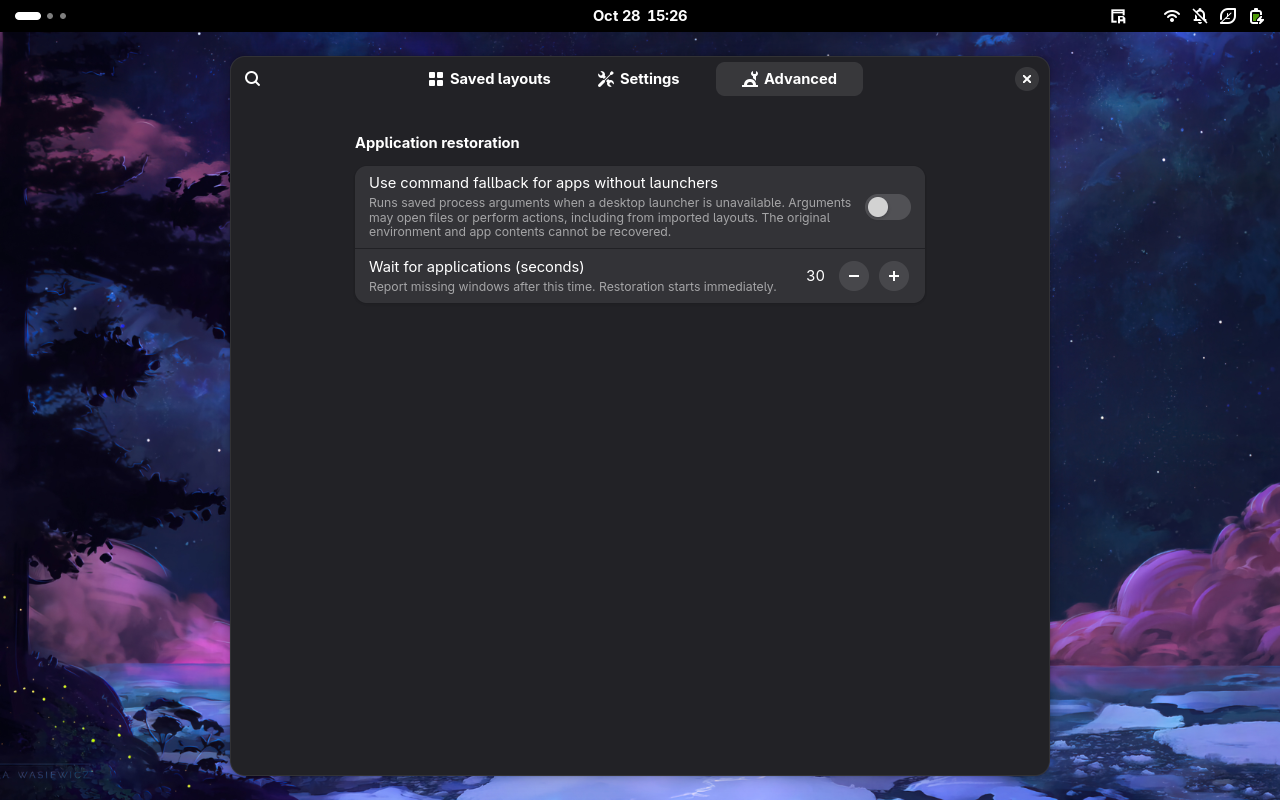
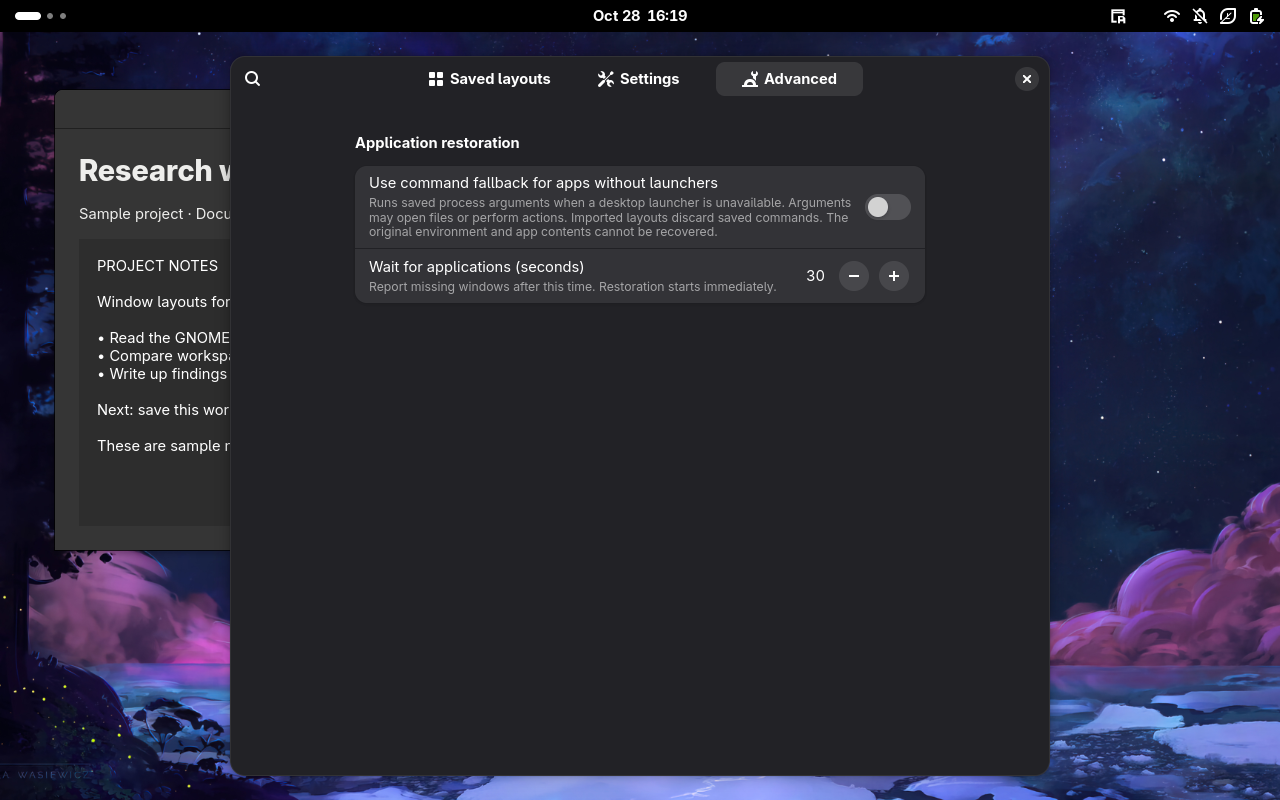
Refresh documentation screenshots and prepare WindowKeep release

Changed region(s): [[0.0312, 0.0938, 0.1875, 0.6875], [0.2812, 0.25, 0.6562, 0.3125], [0.5, 0.0, 0.5312, 0.0312]]

diff --git a/tests/shell-smoke.js b/tests/shell-smoke.js
@@ -31,12 +31,22 @@ export async function run() {
         throw new Error(`Extension failed: ${ext.error}`);
     await Scripting.createTestWindow({width: 640, height: 480});
     await Scripting.waitTestWindows();
-    const {capture, allWindows} = await import(`file://${root}/capture.js`);
+    const {capture, allWindows, commandLine, loginToken} = await import(`file://${root}/capture.js`);
     const {ProfileStore} = await import(`file://${root}/store.js`);
     const {RestoreManager} = await import(`file://${root}/restore.js`);
     const windows = allWindows();
     if (!windows.length) throw new Error('Test window was not captured');
     const w = windows[0];
+    if (loginToken() !== loginToken()) throw new Error('Session identity changed');
+    const argumentsSnapshot = await commandLine(w.get_pid(), '');
+    if (!argumentsSnapshot?.length) throw new Error('Async process argument capture failed');
+    const cancelledCapture = new Gio.Cancellable();
+    cancelledCapture.cancel();
+    let captureCancelled = false;
+    try { await capture('Cancelled capture', null, cancelledCapture); }
+    catch (_) { captureCancelled = true; }
+    if (!captureCancelled) throw new Error('Capture ignored cancellation');
+    print('WINDOWKEEP_ASYNC_CAPTURE_PASS');
     Main.wm.blockWorkspaceUpdates();
     try {
         while (global.workspace_manager.n_workspaces < 3)
@@ -45,7 +55,7 @@ export async function run() {
         w.move_resize_frame(true, 100, 100, 640, 480);
         await Scripting.waitLeisure();
         await waitFor(() => w.get_frame_rect().width > 0 && w.get_frame_rect().height > 0);
-        const profile = capture('Nested smoke');
+        const profile = await capture('Reference workspace');
         const saved = profile.windows.find(s => s.stableSequence === w.get_stable_sequence());
         if (saved.workspace !== 2) throw new Error('Inactive workspace not captured');
         const store = new ProfileStore();
@@ -73,7 +83,7 @@ export async function run() {
         appWindows[0].change_workspace_by_index(2, false);
         appWindows[1].move_to_monitor(1);
         await Scripting.waitLeisure();
-        const fresh = capture('Two monitors');
+        const fresh = await capture('Two monitors');
         fresh.windows = fresh.windows.filter(win => win.appId === 'org.example.WindowKeepTest.desktop');
         if (fresh.windows.length !== 2 || new Set(fresh.windows.map(win => win.monitor)).size !== 2)
             throw new Error(`Multi-monitor capture failed: ${JSON.stringify(fresh.windows)}`);
@@ -104,12 +114,27 @@ export async function run() {
         if (resetResult.state !== 'complete') throw new Error(`Unmaximize restore failed: ${JSON.stringify(resetResult)}`);
         resetRestore.destroy();
         print('WINDOWKEEP_STATE_PASS');
+        const stageDemoWindows = async () => {
+            if (!GLib.getenv('WINDOWKEEP_DOC_SCREENSHOTS')) return;
+            for (const [index, win] of testWindows().entries()) {
+                win.change_workspace(global.workspace_manager.get_active_workspace());
+                win.move_to_monitor(0);
+                win.unminimize();
+                win.move_resize_frame(true, 55 + index * 330, 90 + index * 100, 620, 460);
+                win.activate(global.get_current_time());
+            }
+            await Scripting.sleep(500);
+        };
+        await stageDemoWindows();
+        fresh.windows = (await capture('Research workspace', new Set(testWindows()))).windows;
         fresh.name = 'Research workspace';
         (await store.write(fresh));
         Main.overview.hide();
         await Scripting.waitLeisure();
         ext.stateObj._indicator.menu.open();
-        await Scripting.waitLeisure();
+        await ext.stateObj._refresh();
+        ext.stateObj._indicator.menu._getMenuItems().find(item => item.label?.text.startsWith('Research workspace'))?.menu.open();
+        await Scripting.sleep(400);
         await screenshot(`${GLib.getenv('WINDOWKEEP_REAL_SOURCE')}/docs/panel.png`);
         ext.stateObj._indicator.menu.close();
         if (GLib.getenv('WINDOWKEEP_DOC_SCREENSHOTS')) {
@@ -141,6 +166,7 @@ export async function run() {
         await new Promise((resolve, reject) => prefsProcess.wait_check_async(null, (proc, result) => {
             try { proc.wait_check_finish(result); resolve(); } catch (error) { reject(error); }
         }));
+        await stageDemoWindows();
         const cliSave = (await cli(root, 'save', 'D-Bus smoke')).trim();
         const listing = JSON.parse(await cli(root, 'list'));
         if (!listing.profiles.some(p => p.id === cliSave)) throw new Error('D-Bus save/list failed');
@@ -168,7 +194,8 @@ export async function run() {
         missingRestore.destroy();
         if (missingRestore.operation || cancelOp.signals.items.length || cancelOp.workspaceUpdatesBlocked && Main.wm._blockCount < 1) throw new Error('Cancellation cleanup failed');
         const panelBefore = (await store.list()).profiles.length;
-        ext.stateObj._reviewSave('Research workspace');
+        await stageDemoWindows();
+        await ext.stateObj._reviewSave('Research workspace');
         if (GLib.getenv('WINDOWKEEP_DOC_SCREENSHOTS')) {
             await Scripting.sleep(500);
             await screenshot(`${GLib.getenv('WINDOWKEEP_REAL_SOURCE')}/docs/save-review.png`);
@@ -203,7 +230,7 @@ export async function run() {
         fakeExit.contentLayout.destroy();
         print('WINDOWKEEP_EXIT_REVIEW_FLOW_PASS');
         const beforeSave = (await store.list()).profiles.length;
-        ext.stateObj._reviewSave('My research project', false, 0);
+        await ext.stateObj._reviewSave('My research project', false, 0);
         const reviewDialog = ext.stateObj._saveDialog;
         const review = reviewDialog._windowkeepReview;
         review.name.set_text('Reviewed research project');
@@ -232,7 +259,12 @@ export async function run() {
         ext.stateObj._loginDialog.buttonLayout.get_children()[0].emit('clicked', 1);
         if (ext.stateObj._loginDialog || ext.stateObj._restore.operation) throw new Error('Keep desktop unchanged failed');
         print('WINDOWKEEP_LOGIN_CHOOSER_PASS');
-        const project = capture('Research workspace', new Set(testWindows()));
+        if (GLib.getenv('WINDOWKEEP_DOC_SCREENSHOTS')) {
+            await store.remove(fresh.id);
+            for (const saved of (await store.list()).profiles)
+                if (saved.name === 'Reviewed research project') await store.remove(saved.id);
+        }
+        const project = await capture('Research workspace', new Set(testWindows()));
         (await store.write(project));
         const count = testWindows().length;
         if (!ext.stateObj._projects.state(project).active) throw new Error('Open saved layout is not active');
@@ -243,13 +275,18 @@ export async function run() {
         if (GLib.getenv('WINDOWKEEP_DOC_SCREENSHOTS')) {
             await ext.stateObj._refresh();
             ext.stateObj._indicator.menu.open();
+            await ext.stateObj._refresh();
+            ext.stateObj._indicator.menu._getMenuItems().find(item => item.label?.text.startsWith('Research workspace'))?.menu.open();
             await Scripting.sleep(400);
             await screenshot(`${GLib.getenv('WINDOWKEEP_REAL_SOURCE')}/docs/collapsed-layout.png`);
             ext.stateObj._indicator.menu.close();
+            await ext.stateObj._projects.resume(project.id);
+            await stageDemoWindows();
             await ext.stateObj._projectAction(project.id, true);
             await Scripting.sleep(400);
             await screenshot(`${GLib.getenv('WINDOWKEEP_REAL_SOURCE')}/docs/save-close.png`);
             ext.stateObj._closeDialog.buttonLayout.get_children()[0].emit('clicked', 1);
+            await ext.stateObj._projects.collapse(project.id);
         }
         await waitFor(() => testWindows().every(win => win.minimized));
         await ext.stateObj._projects.collapse(project.id);
@@ -280,7 +317,7 @@ export async function run() {
         print('WINDOWKEEP_SHUTDOWN_PROMPT_PASS');
         print('WINDOWKEEP_DBUS_LIFECYCLE_PASS');
         print(`WINDOWKEEP_LAUNCH_PASS ${JSON.stringify(launchedResult)}`);
-        (await store.remove(fresh.id));
+        if (!GLib.getenv('WINDOWKEEP_DOC_SCREENSHOTS')) (await store.remove(fresh.id));
         (await store.remove(profile.id));
         print(`WINDOWKEEP_SMOKE_PASS ${JSON.stringify(result)}`);
     } finally {

diff --git a/capture.js b/capture.js
@@ -1,5 +1,6 @@
 // SPDX-License-Identifier: GPL-3.0-or-later
 import GioUnix from 'gi://GioUnix';
+import Gio from 'gi://Gio';
 import GLib from 'gi://GLib';
 import Meta from 'gi://Meta';
 import Shell from 'gi://Shell';
@@ -38,29 +39,32 @@ export function windowIdentity(w) {
         transient: Boolean(w.get_transient_for()),
     };
 }
+// Static identity for this Shell's module lifetime. It survives enable/disable,
+// but a new compositor process gets a fresh token without reading /proc.
+const SESSION_TOKEN = GLib.uuid_string_random();
 export function loginToken() {
-    // Stable sequences belong to one compositor process, not merely one boot.
-    try {
-        const [, boot] = GLib.file_get_contents('/proc/sys/kernel/random/boot_id');
-        const [, stat] = GLib.file_get_contents('/proc/self/stat');
-        const fields = new TextDecoder().decode(stat).split(') ').slice(1).join(') ').split(' ');
-        return `${new TextDecoder().decode(boot).trim()}:${fields[19]}`;
-    } catch (_) {
-        return '';
-    }
+    return SESSION_TOKEN;
 }
-export function commandLine(w, appId) {
+export async function commandLine(pid, appId, cancellable = null) {
     if (appId && GioUnix.DesktopAppInfo.new(appId))
         return null;
     try {
-        const [, bytes] = GLib.file_get_contents(`/proc/${w.get_pid()}/cmdline`);
+        const file = Gio.File.new_for_path(`/proc/${pid}/cmdline`);
+        const bytes = await new Promise((resolve, reject) => {
+            file.load_contents_async(cancellable, (source, result) => {
+                try { resolve(source.load_contents_finish(result)[1]); }
+                catch (error) { reject(error); }
+            });
+        });
         const args = new TextDecoder().decode(bytes).split('\0').filter(Boolean);
         return args.length ? args : null;
-    } catch (_) {
+    } catch (error) {
+        if (cancellable?.is_cancelled()) throw error;
+        // A window's process may exit or disallow access while being captured.
         return null;
     }
 }
-export function capture(name, selected = null) {
+export async function capture(name, selected = null, cancellable = null) {
     if (!(Meta.is_wayland_compositor?.() ?? true))
         throw new Error('WindowKeep requires a Wayland session');
     const outputs = monitors();
@@ -75,7 +79,7 @@ export function capture(name, selected = null) {
         const half = Math.abs(relative.width - 0.5) < 0.025 && Math.abs(relative.height - 1) < 0.025;
         return {
             id: GLib.uuid_string_random(), ...identity, type: w.get_window_type(), pid: w.get_pid(),
-            command: commandLine(w, identity.appId), workspace: w.get_workspace()?.index() ?? 0,
+            command: null, workspace: w.get_workspace()?.index() ?? 0,
             monitor: w.get_monitor(), absolute: {[layout]: r}, relative,
             maximized: w.get_maximize_flags?.() ?? w.get_maximized?.() ?? 0,
             tile: half && Math.abs(relative.x) < 0.025 ? 'left' : half && Math.abs(relative.x - 0.5) < 0.025 ? 'right' : 'normal',
@@ -83,10 +87,17 @@ export function capture(name, selected = null) {
             fullscreen: w.is_fullscreen(), minimized: w.minimized, stacking,
         };
     });
-    return {
+    const profile = {
         schemaVersion: 1, provider: 'shell-heuristic-v1', id: GLib.uuid_string_random(),
         name: name.trim(), createdAt: new Date().toISOString(), login: loginToken(), layout,
         monitors: outputs, workspaceCount: global.workspace_manager.n_workspaces,
         activeWorkspace: global.workspace_manager.get_active_workspace_index(), windows,
     };
+    // Snapshot geometry and identity before yielding; only process arguments need IO.
+    await Promise.all(windows.map(async saved => {
+        saved.command = await commandLine(saved.pid, saved.appId, cancellable);
+    }));
+    if (cancellable?.is_cancelled())
+        throw new Error('WindowKeep capture cancelled');
+    return profile;
 }

diff --git a/extension.js b/extension.js
@@ -82,7 +82,7 @@ export default class WindowKeep extends Extension {
             let name = '';
             try { name = (await this._store.read(this._settings.get_string('last-profile'))).name; } catch (_) { /* New layout. */ }
             if (!this._settings) return;
-            this._reviewSave(name.startsWith('Before shutdown ') ? '' : name, false, type);
+            await this._reviewSave(name.startsWith('Before shutdown ') ? '' : name, false, type);
         }), this.gettext.bind(this));
         this._guard(() => this._refresh());
     }
@@ -166,8 +166,11 @@ export default class WindowKeep extends Extension {
         }
     }
 
-    _save(name, workspaceOnly = false) {
-        return this._commitSave(capture(name, workspaceOnly ? new Set(global.workspace_manager.get_active_workspace().list_windows()) : null));
+    async _save(name, workspaceOnly = false) {
+        const store = this._store;
+        const draft = await capture(name, workspaceOnly ? new Set(global.workspace_manager.get_active_workspace().list_windows()) : null, store.cancellable);
+        if (this._store !== store) throw new Error('WindowKeep disabled');
+        return this._commitSave(draft);
     }
 
     async _commitSave(draft) {
@@ -178,9 +181,17 @@ export default class WindowKeep extends Extension {
         return profile;
     }
 
-    _reviewSave(name, workspaceOnly = false, exitType = null) {
-        if (this._saveDialog) return;
-        const draft = capture(name || this.gettext('My workspace'), workspaceOnly ? new Set(global.workspace_manager.get_active_workspace().list_windows()) : null);
+    async _reviewSave(name, workspaceOnly = false, exitType = null) {
+        if (this._saveDialog || this._capturing) return;
+        const store = this._store;
+        this._capturing = store;
+        let draft;
+        try {
+            draft = await capture(name || this.gettext('My workspace'), workspaceOnly ? new Set(global.workspace_manager.get_active_workspace().list_windows()) : null, store.cancellable);
+        } finally {
+            if (this._capturing === store) this._capturing = null;
+        }
+        if (this._store !== store) return;
         const dialog = new ModalDialog.ModalDialog();
         this._saveDialog = dialog;
         const review = new SaveReview(draft, this.gettext.bind(this));
@@ -345,6 +356,7 @@ ${this.gettext('Closing these windows affects those layouts too.')}`});
         try { syncAutostart(false, this.path); }
         catch (error) { console.error(`WindowKeep: unable to remove login helper: ${error.message}`); }
         this._store.destroy();
+        this._capturing = null;
         this._saveDialog?.destroy();
         this._saveDialog = null;
         this._loginDialog?.destroy();

diff --git a/projects.js b/projects.js
@@ -38,7 +38,8 @@ export class Projects {
         const windows = this.members(profile);
         if (!windows.length)
             throw new Error('No original project windows remain open. Use Resume instead.');
-        const snapshot = capture(profile.name, new Set(windows));
+        const snapshot = await capture(profile.name, new Set(windows), this.store.cancellable);
+        if (this.destroyed) throw new Error('WindowKeep disabled');
         // Keep missing entries for future restore; update only known live members.
         const live = new Map(snapshot.windows.map(w => [w.stableSequence, w]));
         snapshot.windows = profile.windows.map(old => {

diff --git a/tests/test-app.py b/tests/test-app.py
@@ -7,7 +7,22 @@ from gi.repository import Gio, Gtk
 app = Gtk.Application(application_id=os.environ.get('WINDOWKEEP_TEST_APP_ID', 'org.example.WindowKeepTest'), flags=Gio.ApplicationFlags.NON_UNIQUE)
 def activate(application):
     window = Gtk.ApplicationWindow(application=application, title='WindowKeep test window', default_width=640, default_height=480)
-    window.set_child(Gtk.Label(label='Isolated session restore test'))
+    if os.environ.get('WINDOWKEEP_DOC_SCREENSHOTS'):
+        Gtk.Settings.get_default().set_property('gtk-application-prefer-dark-theme', True)
+        window.set_title('Research notes — Demo project')
+        box = Gtk.Box(orientation=Gtk.Orientation.VERTICAL, spacing=16,
+                      margin_top=24, margin_bottom=24, margin_start=24, margin_end=24)
+        heading = Gtk.Label(label='Research workspace', xalign=0)
+        heading.add_css_class('title-1')
+        box.append(heading)
+        box.append(Gtk.Label(label='Sample project · Documentation demo', xalign=0))
+        notes = Gtk.TextView(editable=False, cursor_visible=False, wrap_mode=Gtk.WrapMode.WORD_CHAR,
+                            vexpand=True, top_margin=18, left_margin=18, right_margin=18)
+        notes.get_buffer().set_text('PROJECT NOTES\n\nWindow layouts for focused work\n\n• Read the GNOME documentation\n• Compare workspace arrangements\n• Write up findings\n\nNext: save this workspace as a named layout.\n\nThese are sample notes for the screenshots.')
+        box.append(notes)
+        window.set_child(box)
+    else:
+        window.set_child(Gtk.Label(label='Isolated session restore test'))
     window.present()
 app.connect('activate', activate)
 app.run(None)

diff --git a/scripts/pack.py b/scripts/pack.py
@@ -13,7 +13,6 @@ files = [root / name for name in [
     'extension.js', 'prefs.js', 'capture.js', 'restore.js', 'model.js',
     'store.js', 'projects.js', 'saveReview.js', 'settings.js', 'login.js',
     'shutdownPrompt.js', 'metadata.json', 'LICENSE',
-    'schemas/gschemas.compiled',
     'schemas/org.gnome.shell.extensions.session-atlas.gschema.xml',
     'schemas/org.gnome.shell.extensions.windowkeep.gschema.xml',
     'icons/windowkeep-symbolic.svg', 'scripts/windowkeep',

diff --git a/README.md b/README.md
@@ -1,26 +1,24 @@
 # WindowKeep
 
-**Save your workspace. Pick up where you left off.**
-
-| **Overview — features and screenshots** | [Architecture — code and design](docs/ARCHITECTURE.md) |
-| :--- | :--- |
 
 WindowKeep is a GNOME Shell extension for saving window arrangements across
 workspaces and monitors. Keep named layouts for different projects, choose what
 to include, and restore them from the top panel.
 
+| **Overview — features and screenshots** | [Architecture — code and design](docs/ARCHITECTURE.md) |
+| :--- | :--- |
+
+
 **GNOME 50 · Wayland · GPL-3.0-or-later**
 
-> WindowKeep restores window arrangements. Browser tabs, documents, unsaved work
-> and terminal contents depend on each application's own save and restore support.
 
 ## Your layouts, in one place
 
-Open the window-and-save icon in the top panel to capture your entire desktop or
+Open the WindowKeep icon in the top panel to capture your entire desktop or
 just the current workspace. **Active layouts** shows layouts with tracked open
 windows; **Saved layouts** keeps inactive layouts in a collapsed dropdown.
 
-![WindowKeep panel showing its save actions and layout groups](docs/panel.png)
+![Expanded active layout menu with Collapse and Save and close actions](docs/panel.png)
 
 | Action | What happens |
 | --- | --- |
@@ -33,9 +31,12 @@ windows; **Saved layouts** keeps inactive layouts in a collapsed dropdown.
 
 ### Collapse and Save and close
 
-![Collapsed layout status in the panel](docs/collapsed-layout.png)
+Collapse hides the windows, so the desktop becomes clear while the apps keep
+running. Expand the collapsed layout to resume it.
 
-![Save and close confirmation with shared-window warning](docs/save-close.png)
+![Expanded collapsed layout menu with Resume and Save and close actions](docs/collapsed-layout.png)
+
+![Short Save and close confirmation over the open demo windows](docs/save-close.png)
 
 
 
@@ -178,7 +179,8 @@ Extensions. Automated checks run against GNOME 50.5 with two virtual outputs. Ph
 Flatpak and real-login acceptance work remains documented in the
 [manual test matrix](docs/TESTING.md).
 Screenshots above are actual renders from the isolated test desktop, using test
-applications rather than personal windows.
+applications with sample project notes rather than personal windows. The expanded
+menus show the actions available for active and collapsed layouts.
 
 ## Privacy, automation and contributing
 

diff --git a/docs/PUBLISHING.md b/docs/PUBLISHING.md
@@ -62,7 +62,7 @@ unzip -l dist/windowkeep@rithakith.github.io.shell-extension.zip
 
 The isolated Shell test should exit 0 and print six PASS markers covering capture,
 launch, state, preferences, D-Bus/lifecycle and the shutdown reminder. The ZIP
-contains runtime JavaScript, metadata, license, schemas, the symbolic icon and the GJS CLI. It does
+contains runtime JavaScript, metadata, license, schema XML, the symbolic icon and the GJS CLI. It does
 not contain tests, build scripts, documentation images or design notes. Keep
 those in the source repository. Install and test this exact ZIP before submitting.
 

diff --git a/docs/ARCHITECTURE.md b/docs/ARCHITECTURE.md
@@ -148,8 +148,7 @@ retries a Restore request that might have already launched apps.
 ![Advanced controls for launch waiting and process fallback](advanced.png)
 
 Command fallback is explicit opt-in, passes argv directly without shell
-interpolation and cannot restore process memory, cwd or environment. Treat
-imported commands as executable behavior, not passive window metadata.
+interpolation and cannot restore process memory, cwd or environment. Local saved commands are executable behavior. Imports discard command arrays and use installed desktop launchers.
 
 ## Exit review and lifecycle
 
